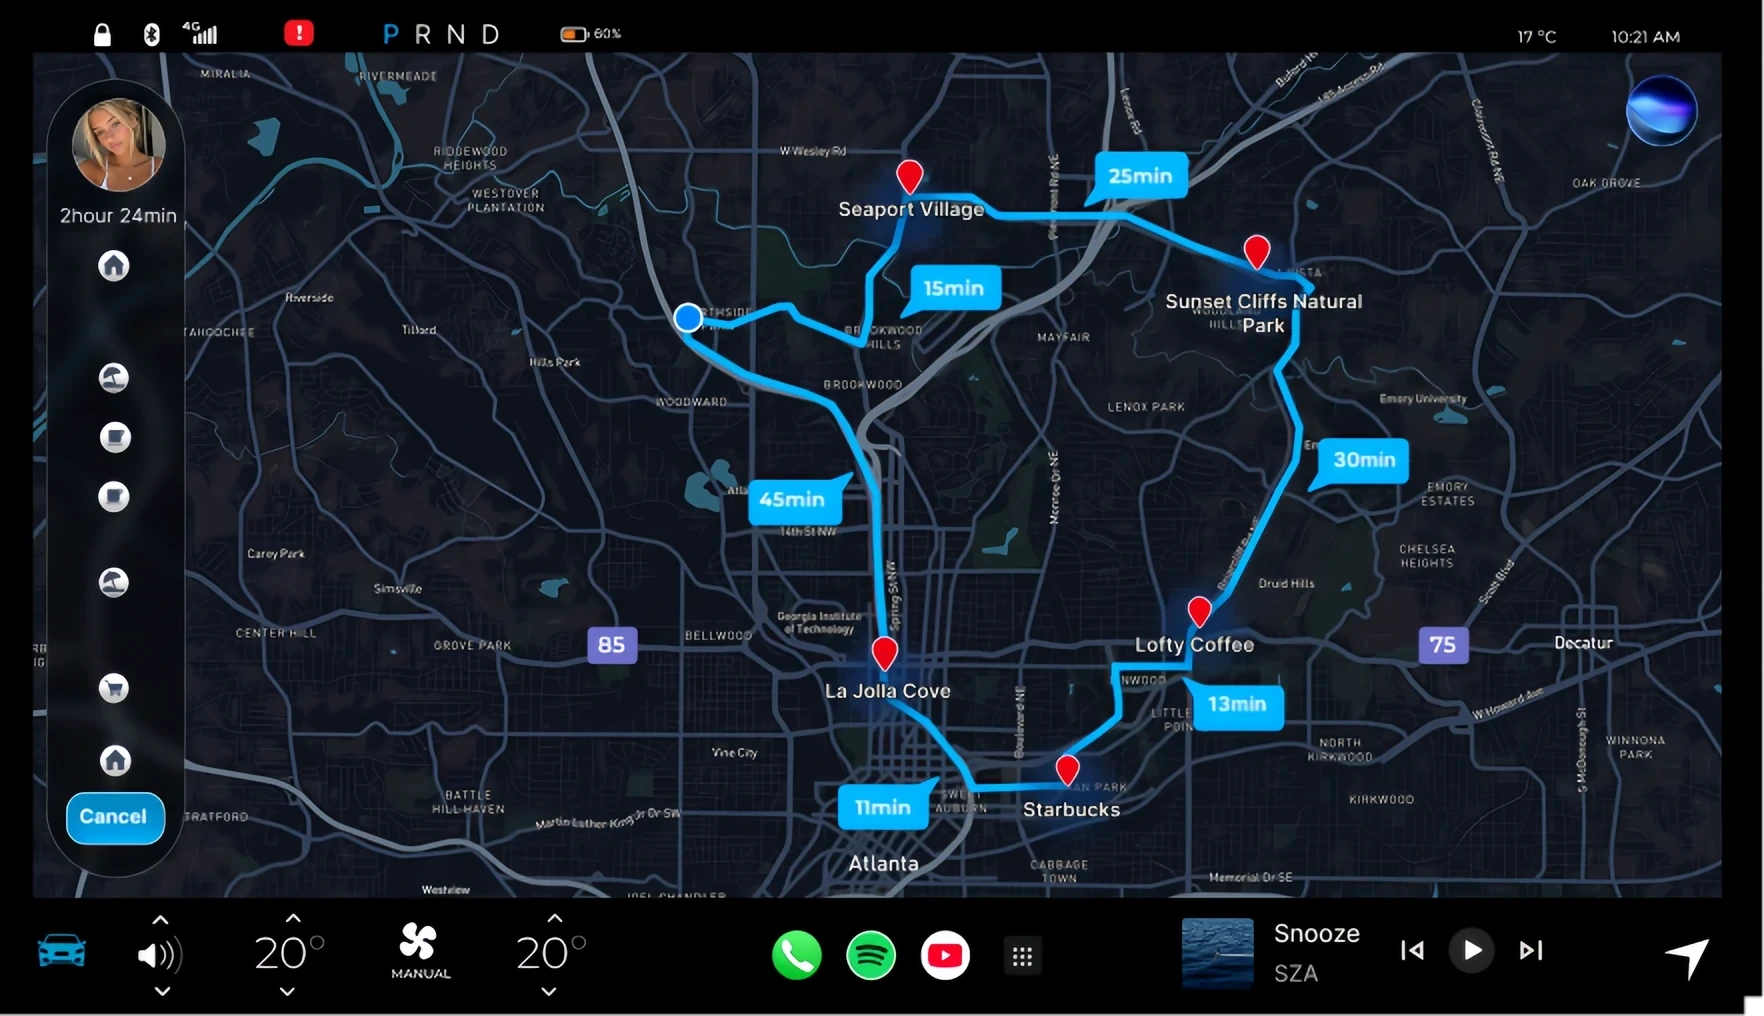
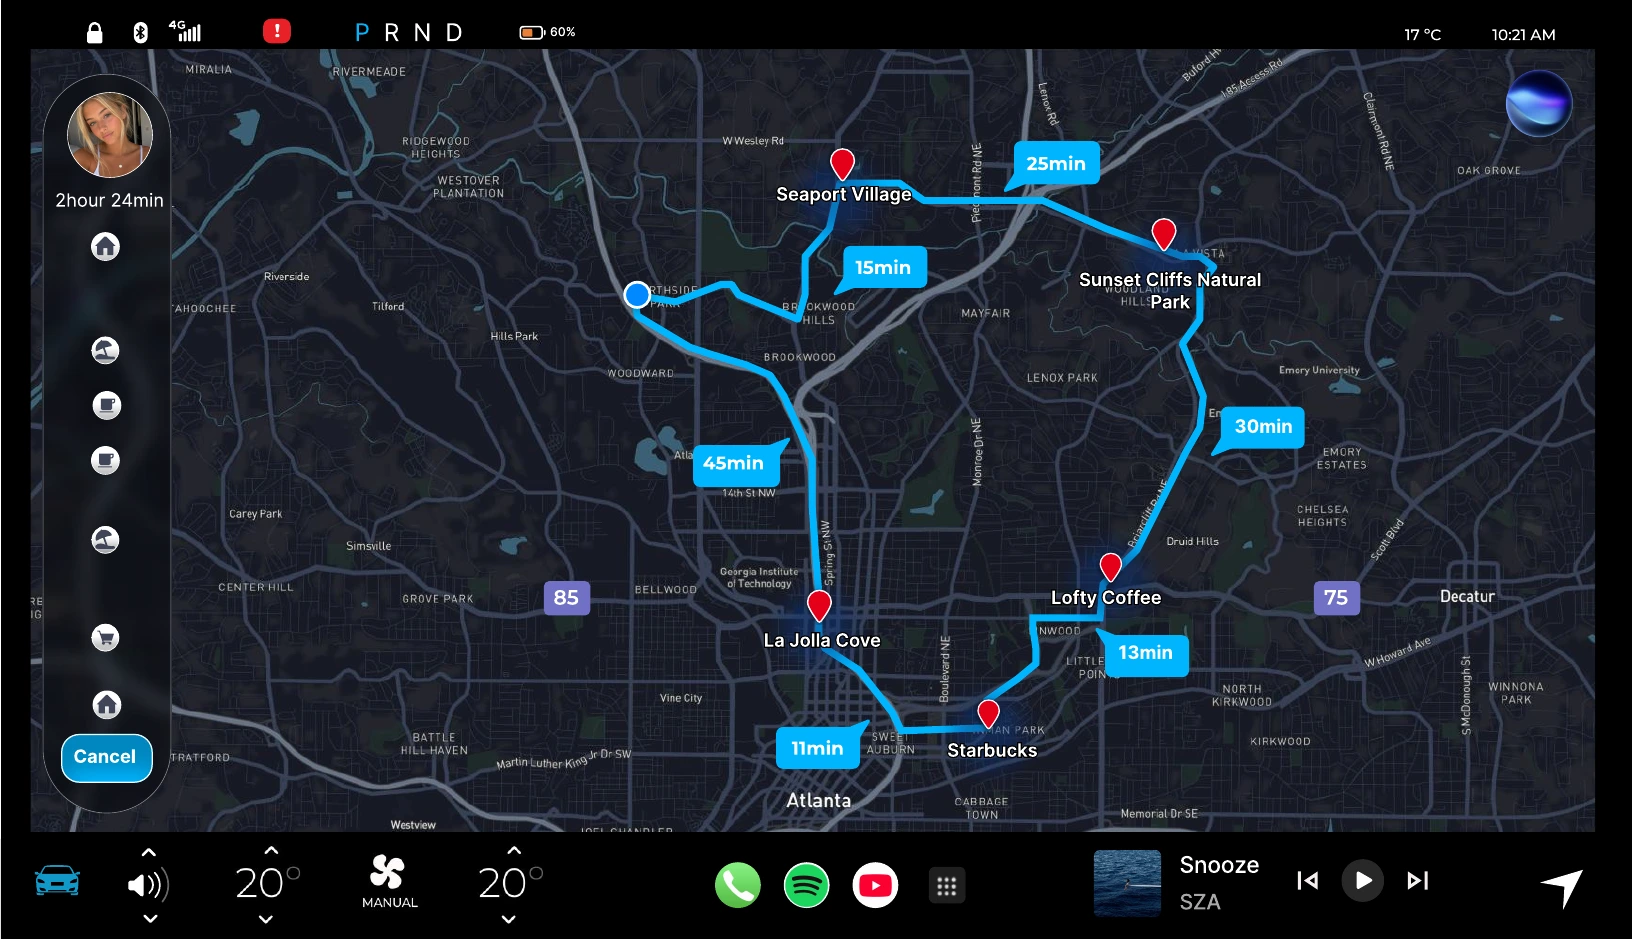
Trip Planning: high-res in-car screenshots, aligned; Color & Materials text left, swatches right
20 head-unit images replaced from the user's exports (sources in ../reference/trip-planning/hu-hires,
processed by tools/hu_hires.py): blank canvas trimmed, every screen box 1632x940 -> 882x508 display,
pop-outs kept.

diff --git a/app/work/ai-trip-planning/page.tsx b/app/work/ai-trip-planning/page.tsx
@@ -136,15 +136,15 @@ const PHONE_SCHEDULE = [
 ];
 
 const HU_MANUAL = [
-  hu("manual-1", 882, 553, "Trip plan panel with Lofty Coffee selected", "Open the trip plan and select a stop"),
-  hu("manual-2", 882, 517, "Trip plan search field with the on-screen keyboard open", "Search to replace it"),
+  hu("manual-1", 882, 552, "Trip plan panel with Lofty Coffee selected", "Open the trip plan and select a stop"),
+  hu("manual-2", 882, 508, "Trip plan search field with the on-screen keyboard open", "Search to replace it"),
 ];
 
 const HU_AI = [
   hu("ai-1", 882, 538, "Request to replace the third stop with a highly rated Italian restaurant", "Ask AI for a change"),
-  hu("ai-2", 1052, 538, "AI evaluating nearby Italian restaurants", "AI finds the best match"),
-  hu("ai-3", 881, 558, "Bencotto Italian Kitchen proposed in the trip plan with Save Changes", "Review and save"),
-  hu("ai-4", 881, 541, "Updated trip plan with the new restaurant and route", "Itinerary updated"),
+  hu("ai-2", 1052, 539, "AI evaluating nearby Italian restaurants", "AI finds the best match"),
+  hu("ai-3", 882, 558, "Bencotto Italian Kitchen proposed in the trip plan with Save Changes", "Review and save"),
+  hu("ai-4", 882, 542, "Updated trip plan with the new restaurant and route", "Itinerary updated"),
 ];
 
 const HU_ADD_STOP = [
@@ -157,14 +157,14 @@ const HU_ADD_STOP = [
 const HU_PARKING = [hu("parking", 882, 508, "Parking lots marked around La Jolla Cove", "Parking near the stop")];
 
 const HU_CHARGING = [
-  hu("charging-1", 1073, 508, "AI reporting low battery and two charging options along the route", "Battery low: AI finds two options"),
+  hu("charging-1", 1057, 508, "AI reporting low battery and two charging options along the route", "Battery low: AI finds two options"),
   hu("charging-2", 882, 508, "Charging stations along the route, with the recommended one marked by a yellow star", "The recommended charger is starred"),
   hu("charging-3", 882, 508, "Navigation rerouted to the chosen charging station", "Route to the charger"),
   hu("charging-4", 882, 508, "Driving view with navigation to the charger", "Then on to the next stop"),
 ];
 
 const HU_ADAPT = [
-  hu("adapt-1", 1096, 508, "AI warning that Lofty Coffee will be closed on arrival", "The next stop will be closed"),
+  hu("adapt-1", 1053, 508, "AI warning that Lofty Coffee will be closed on arrival", "The next stop will be closed"),
   hu("adapt-2", 882, 508, "Coastal Table suggested as an open alternative", "An open alternative"),
   hu("adapt-3", 882, 508, "Revised route with navigation started", "New route, navigation starts"),
 ];
@@ -488,34 +488,36 @@ export default function TripPlanningCaseStudy() {
 
           {/* 04 — COLOR & MATERIALS */}
           <WideSection id="color" index="04" label="Color & Materials" title="Colors you can read at a glance.">
-            <Stack>
-              <TwoCol>
-                <P>
-                  The palette is black, pure white, bright orange, bright purple, and light blue. Every color is bright and
-                  high-contrast, so a driver can <Shimmer>{"take in key information at a glance"}</Shimmer> without studying the
-                  screen.
-                </P>
-                <P>
-                  The interface sits on a dark navy base. Against it, the saturated orange, purple, and blue stand out right
-                  away and stay vivid rather than washed out, so the information that matters is the first thing the eye lands on.
-                </P>
-              </TwoCol>
-            </Stack>
+            {/* Text stacked on the left, swatches beside it on the right */}
             <Reveal>
-              <figure>
-                {/* eslint-disable-next-line @next/next/no-img-element */}
-                <img
-                  src="/images/trip-planning/palette.webp"
-                  alt="The color palette: black #000000, purple #664BDC, orange #EB8037, and light blue #00B5FF"
-                  width={1400}
-                  height={1004}
-                  loading="lazy"
-                  className="mx-auto block h-auto w-full max-w-[440px] rounded-[12px]"
-                />
-                <figcaption className="font-gilroy mx-auto mt-4 max-w-[440px] text-[15px] leading-[1.6] text-neutral-400">
-                  Black #000000 · Purple #664BDC · Orange #EB8037 · Light blue #00B5FF, with pure white for text.
-                </figcaption>
-              </figure>
+              <div className="grid items-center gap-10 md:grid-cols-[minmax(0,1fr)_minmax(0,440px)] md:gap-16">
+                <div className="flex flex-col gap-6">
+                  <P>
+                    The palette is black, pure white, bright orange, bright purple, and light blue. Every color is bright and
+                    high-contrast, so a driver can <Shimmer>{"take in key information at a glance"}</Shimmer> without studying
+                    the screen.
+                  </P>
+                  <P>
+                    The interface sits on a dark navy base. Against it, the saturated orange, purple, and blue stand out right
+                    away and stay vivid rather than washed out, so the information that matters is the first thing the eye
+                    lands on.
+                  </P>
+                </div>
+                <figure>
+                  {/* eslint-disable-next-line @next/next/no-img-element */}
+                  <img
+                    src="/images/trip-planning/palette.webp"
+                    alt="The color palette: black #000000, purple #664BDC, orange #EB8037, and light blue #00B5FF"
+                    width={1400}
+                    height={1004}
+                    loading="lazy"
+                    className="block h-auto w-full rounded-[12px]"
+                  />
+                  <figcaption className="font-gilroy mt-4 text-[15px] leading-[1.6] text-neutral-400">
+                    Black #000000 · Purple #664BDC · Orange #EB8037 · Light blue #00B5FF, with pure white for text.
+                  </figcaption>
+                </figure>
+              </div>
             </Reveal>
             <Stack>
               <Box label="Frosted glass for prompts">
@@ -692,7 +694,7 @@ export default function TripPlanningCaseStudy() {
               <Slideshow
                 frames={[
                   hu("explore-1", 882, 508, "The planned trip on the head unit's route map", "The trip on the map"),
-                  hu("explore-2", 1010, 508, "Compact and expanded La Jolla Cove place cards over the route map", "Tap a place: compact card, then full details"),
+                  hu("explore-2", 1011, 508, "Compact and expanded La Jolla Cove place cards over the route map", "Tap a place: compact card, then full details"),
                 ]}
                 caption="Tap any point for a compact place card; expand it for ratings, photos, and hours."
               />
